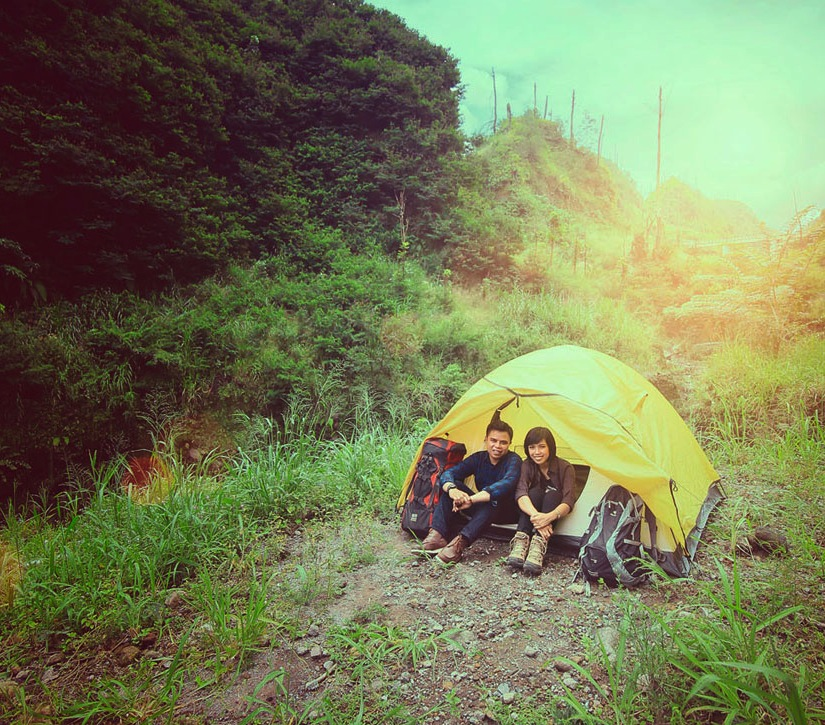
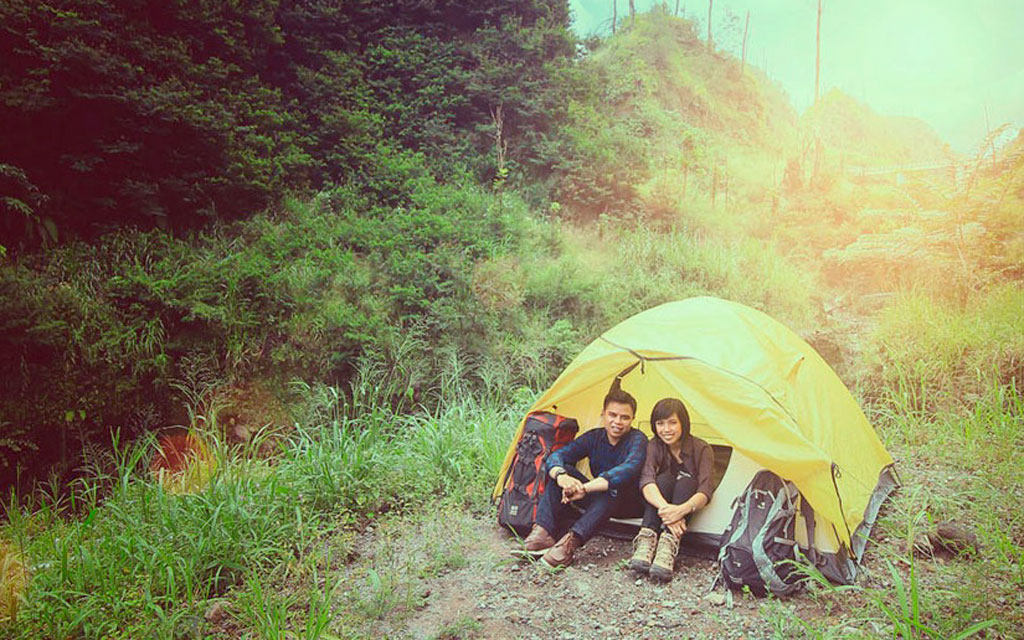
revisi

diff --git a/stylesheets/app.css b/stylesheets/app.css
@@ -1,1 +1,1 @@
-*{margin:0;padding:0;font-size:100%;-moz-box-sizing:border-box;box-sizing:border-box}html{font-size:62.5%}body{font:14px/1.5 Georgia, Serif;color:#484848;background-color:#111;background-position:center center;background-repeat:no-repeat;background-attachment:fixed;-moz-background-size:cover;-webkit-background-size:cover;-o-background-size:cover;background-size:cover}a{text-decoration:none}i{font-style:italic}.photo{position:fixed;top:0;right:0;bottom:0;left:0;z-index:-1;overflow:hidden}.photo .overlay{position:fixed;background:url(../img/overlay.png);top:0;right:0;bottom:0;left:0}.photo .overlay2{position:fixed;top:0;right:0;bottom:0;left:0;*zoom:1;filter:progid:DXImageTransform.Microsoft.gradient(gradientType=0, startColorstr='#FF000000', endColorstr='#FF000000');background-image:-webkit-gradient(linear, 50% 0%, 50% 100%, color-stop(0%, rgba(0,0,0,0.65)), color-stop(100%, rgba(0,0,0,0)));background-image:-webkit-linear-gradient(top, rgba(0,0,0,0.65) 0%,rgba(0,0,0,0) 100%);background-image:-moz-linear-gradient(top, rgba(0,0,0,0.65) 0%,rgba(0,0,0,0) 100%);background-image:-o-linear-gradient(top, rgba(0,0,0,0.65) 0%,rgba(0,0,0,0) 100%);background-image:linear-gradient(top, rgba(0,0,0,0.65) 0%,rgba(0,0,0,0) 100%)}img{border:0;max-width:100%}.wrapper{width:400px;background:#fff url(../img/bg-site.png);color:#484848;padding:20px;text-align:center;max-width:100%;position:absolute;top:0;bottom:0;left:0}.map{position:absolute;bottom:0;right:0;left:0}.map small{font-family:Helvetica, arial, sans-serif;font-size:8px;text-transform:uppercase;letter-spacing:1px;color:#888;display:block;text-align:left;padding-left:20px;position:absolute;line-height:14px;top:-14px}.map a{display:block;position:relative;z-index:1}.map img{display:block}.map .overlay{content:"";position:absolute;top:0;bottom:0;right:0;left:0;background:rgba(255,255,255,0.3) url(../img/noise.png)}.site-header{text-align:center;margin:0}.site-header h1{font-size:50px;color:#811;text-shadow:0 1px 2px rgba(0,0,0,0.25);text-align:center;font-family:Rochester, Constantia, "Hoefler Text", Georgia, Serif;font-weight:400}.tag{margin:0 0 20px}.content{text-align:center;width:240px;margin:20px auto}.content .section{margin:0 0 25px}.content h3{text-transform:uppercase;font-size:10px;letter-spacing:3px;margin:0 0 15px;color:#811}.countdown{padding:20px 0;position:absolute;top:0;right:20px}.fleur{opacity:0.5}.countdown_rtl{direction:rtl}.countdown_holding span{background-color:#ccc}.countdown_row{clear:both;width:100%;text-align:center}.countdown_section{display:inline-block;text-align:center;padding:0 10px;font-family:helvetica;text-transform:uppercase;font-size:10px;letter-spacing:2px;color:rgba(255,255,255,0.875)}.countdown_amount{letter-spacing:-2px;font-size:70px;font-weight:700;line-height:1}.countdown_descr{display:block;width:100%}.footer{overflow:hidden;position:absolute;right:20px;left:420px;bottom:10px;padding:10px 20px 4px 20px;background:rgba(0,0,0,0.3);border-radius:3px;box-shadow:1px 1px rgba(0,0,0,0.1) inset;height:40px}.footer a{color:#ccc;padding-left:10px}.footer a:hover,.footer a:focus{color:yellow}.footer .social{float:left}.footer .small{float:right;color:#ccc;-webkit-font-smoothing:antialiased;font-size:13px}.footer .btn{width:100px;float:left}.footer iframe{display:block;float:left}@media screen and (max-width: 1024px){body{background-position:top right;-moz-background-size:auto 100%;-webkit-background-size:auto 100%;-o-background-size:auto 100%;background-size:auto 100%}}@media (max-width: 768px){body{background-position:top center;-moz-background-size:100%;-webkit-background-size:100%;-o-background-size:100%;background-size:100%}.site-header h1{font-size:35px}.wrapper{margin-top:380px;width:100%}.map,.countdown,.wrapper,.footer{position:static}.map{width:400px;margin:40px auto 20px}.map img{width:400px;margin:0 auto}.countdown{text-align:center}.countdown_amount{letter-spacing:-1px;font-size:50px}.footer{border-radius:0;height:auto;padding-bottom:20px}}@media (max-width: 480px) and (min-width: 320px){body{background-position:top center;-moz-background-size:100%;-webkit-background-size:100%;-o-background-size:100%;background-size:100%}.site-header h1{font-size:35px}.wrapper{margin-top:180px;width:100%}.map,.countdown,.wrapper,.footer{position:static}.map img{width:100%}.countdown{text-align:center}.countdown_amount{letter-spacing:-1px;font-size:50px}.footer{border-radius:0;height:auto;padding-bottom:20px}.footer .small,.footer .social{text-align:left;float:none;margin:0 0 10px;height:20px}}
+*{margin:0;padding:0;font-size:100%;-moz-box-sizing:border-box;box-sizing:border-box}html{font-size:62.5%}body{font:14px/1.5 Georgia, Serif;color:#484848;background-color:#111;background-position:center center;background-repeat:no-repeat;background-attachment:fixed;-moz-background-size:cover;-webkit-background-size:cover;-o-background-size:cover;background-size:cover}a{text-decoration:none}i{font-style:italic}.photo{position:fixed;top:0;right:0;bottom:0;left:0;z-index:-1;overflow:hidden}.photo .overlay{position:fixed;background:url(../img/overlay.png);top:0;right:0;bottom:0;left:0}.photo .overlay2{position:fixed;top:0;right:0;bottom:0;left:0;*zoom:1;filter:progid:DXImageTransform.Microsoft.gradient(gradientType=0, startColorstr='#FF000000', endColorstr='#FF000000');background-image:-webkit-gradient(linear, 50% 0%, 50% 100%, color-stop(0%, rgba(0,0,0,0.65)), color-stop(100%, rgba(0,0,0,0)));background-image:-webkit-linear-gradient(top, rgba(0,0,0,0.65) 0%,rgba(0,0,0,0) 100%);background-image:-moz-linear-gradient(top, rgba(0,0,0,0.65) 0%,rgba(0,0,0,0) 100%);background-image:-o-linear-gradient(top, rgba(0,0,0,0.65) 0%,rgba(0,0,0,0) 100%);background-image:linear-gradient(top, rgba(0,0,0,0.65) 0%,rgba(0,0,0,0) 100%)}img{border:0;max-width:100%}.wrapper{width:400px;background:#fff url(../img/bg-site.png);color:#484848;padding:20px;text-align:center;max-width:100%;position:absolute;top:0;bottom:0;left:0}.map{position:absolute;bottom:0;right:0;left:0}.map small{font-family:Helvetica, arial, sans-serif;font-size:8px;text-transform:uppercase;letter-spacing:1px;color:#888;display:block;text-align:left;padding-left:20px;position:absolute;line-height:14px;top:-14px}.map a{display:block;position:relative;z-index:1}.map img{display:block}.map .overlay{content:"";position:absolute;top:0;bottom:0;right:0;left:0;background:rgba(255,255,255,0.3) url(../img/noise.png)}.site-header{text-align:center;margin:0}.site-header h1{font-size:50px;color:#811;text-shadow:0 1px 2px rgba(0,0,0,0.25);text-align:center;font-family:Rochester, Constantia, "Hoefler Text", Georgia, Serif;font-weight:400}.tag{margin:0 0 20px}.content{text-align:center;width:240px;margin:20px auto}.content .section{margin:0 0 25px}.content h3{text-transform:uppercase;font-size:10px;letter-spacing:3px;margin:0 0 15px;color:#811}.countdown{padding:20px 0;position:absolute;top:0;right:20px}.fleur{opacity:0.5}.countdown_rtl{direction:rtl}.countdown_holding span{background-color:#ccc}.countdown_row{clear:both;width:100%;text-align:center}.countdown_section{display:inline-block;text-align:center;padding:0 10px;font-family:helvetica;text-transform:uppercase;font-size:10px;letter-spacing:2px;color:rgba(255,255,255,0.875)}.countdown_amount{letter-spacing:-2px;font-size:70px;font-weight:700;line-height:1}.countdown_descr{display:block;width:100%}.footer{overflow:hidden;position:absolute;right:20px;left:420px;bottom:10px;padding:10px 20px 4px 20px;background:rgba(0,0,0,0.3);border-radius:3px;box-shadow:1px 1px rgba(0,0,0,0.1) inset;height:40px}.footer a{color:#ccc;padding-left:10px}.footer a:hover,.footer a:focus{color:yellow}.footer .social{float:left}.footer .small{float:right;color:#ccc;-webkit-font-smoothing:antialiased;font-size:13px}.footer .btn{width:100px;float:left}.footer iframe{display:block;float:left}.photo img{min-height:100%;min-width:1024px;width:100%;height:auto;position:fixed;top:0;right:0;z-index:-1}@media screen and (max-width: 1024px){.photo img{left:50%;margin-left:-512px}}@media (max-width: 768px){.countdown_amount{letter-spacing:-1px;font-size:50px}.wrapper{width:300px}.site-header h1{font-size:35px}.footer{left:320px}}@media (max-width: 480px) and (min-width: 320px){.photo img{min-width:100%;left:0;margin:0;min-height:0}.site-header h1{font-size:35px}.wrapper{margin-top:180px;width:100%}.map,.countdown,.wrapper,.footer{position:static}.map img{width:100%}.countdown{text-align:center}.countdown_amount{letter-spacing:-1px;font-size:50px}.footer{border-radius:0;height:auto;padding-bottom:20px}.footer .small,.footer .social{text-align:left;float:none;margin:0 0 10px;height:20px}}

diff --git a/sass/app.scss b/sass/app.scss
@@ -282,73 +282,66 @@ line-height: 1;
 
 
 
-@media screen and (max-width: 1024px) {
-  body {
-		background-position: top right;
-		-moz-background-size: auto 100%;
-		-webkit-background-size: auto 100%;
-		-o-background-size: auto 100%;
-		background-size: auto 100%;
-	}
+.photo {
+
+img {
+  /* Set rules to fill background */
+  min-height: 100%;
+  min-width: 1024px;
+	
+  /* Set up proportionate scaling */
+  width: 100%;
+  height: auto;
+	
+  /* Set up positioning */
+  position: fixed;
+  top: 0;
+  right: 0;
+  z-index: -1;
+}
+}
+
+@media screen and (max-width: 1024px) { /* Specific to this particular image */
+  .photo {
+  	img {
+	    left: 50%;
+	    margin-left: -512px;   /* 50% */
+  	}
+  }
 }
 
 
 @media (max-width: 768px) {
-
-	body {
-		background-position: top center;
-		-moz-background-size: 100%;
-		-webkit-background-size: 100%;
-		-o-background-size: 100%;
-		background-size: 100%;
-	}
-
-	.site-header h1 {
-		font-size: 35px;
-	}
-
-	.wrapper {
-		margin-top:380px;
-		width: 100%;
-	}
-  .map,.countdown,.wrapper,.footer {
-  	position: static;
-  }
-
-  .map {width: 400px;
-  		margin: 40px auto 20px;
-  	
-  	img {
-  		width: 400px;
-  		margin: 0 auto;
-  	}
-  }
-
-  .countdown {
-  	text-align: center;
-  }
 
 	.countdown_amount {
 		letter-spacing: -1px;
 		font-size: 50px;
 	}
 
+	.wrapper {
+		width: 300px;
+	}
+
+
+	.site-header h1 {
+		font-size: 35px;
+	}
+
 	.footer {
-		border-radius:0;
-		height: auto;
-		padding-bottom:20px;
+		left:320px;
 	}
 }
 
 @media (max-width: 480px) and (min-width: 320px) {
 
 
-	body {
-		background-position: top center;
-		-moz-background-size: 100%;
-		-webkit-background-size: 100%;
-		-o-background-size: 100%;
-		background-size: 100%;
+	.photo {
+		img {
+			min-width: 100%;
+			left: 0;
+			margin: 0;
+			min-height: 0;
+		}
 	}
 
 	.site-header h1 {

diff --git a/index.html b/index.html
@@ -90,7 +90,7 @@
 	            format: 'dHMS'
 	        });
 	        var images = ['bg1.jpg', 'bg2.jpg', 'bg3.jpg', 'bg4.jpg', 'bg5.jpg', 'bg6.jpg', 'bg7.jpg'];
-	        $('body').css({'background-image': 'url(img/' + images[Math.floor(Math.random() * images.length)] + ')'});
+	        $('.photo').append('<img src="img/' + images[Math.floor(Math.random() * images.length)] + '">');
 	    });
     </script>
     </body>
